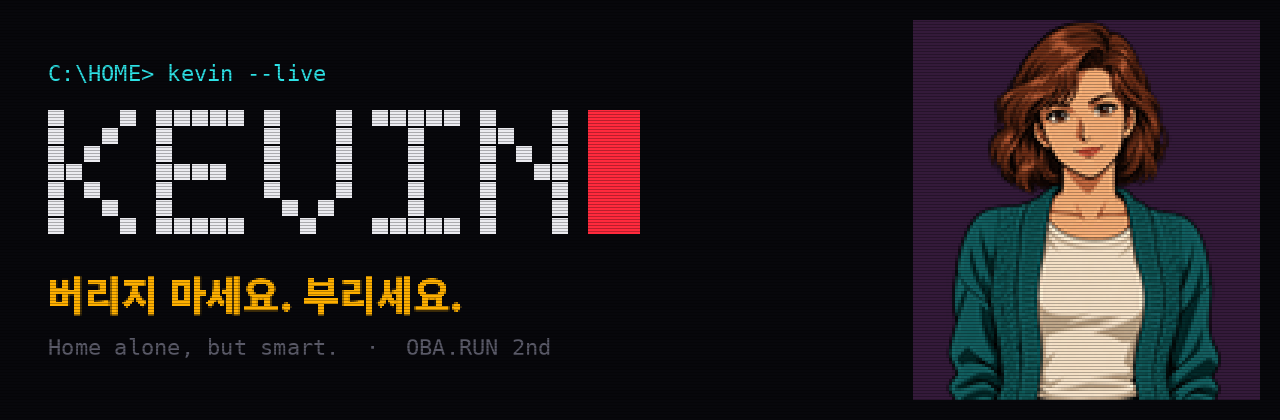
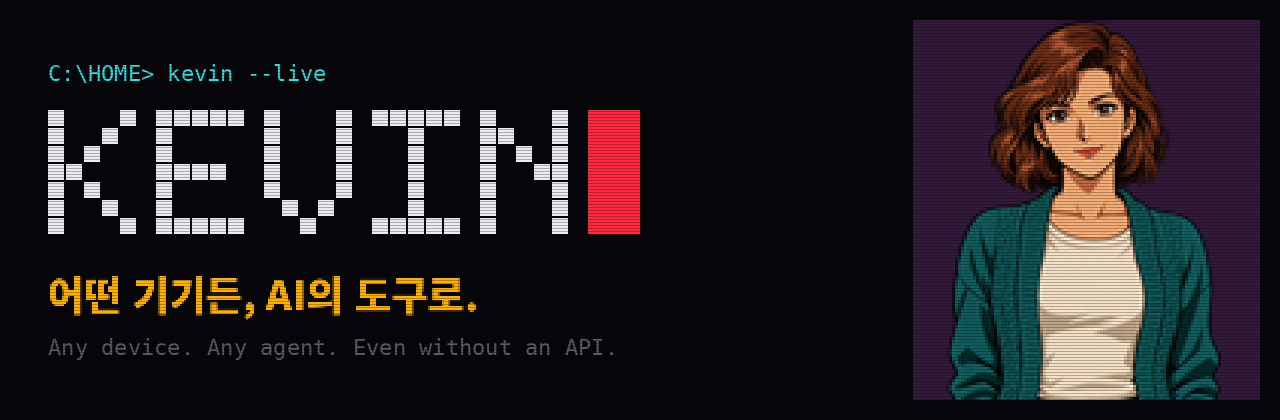
Reframe KEVIN as the device layer that turns any device into an AI tool; MCP and receipts in README

diff --git a/src/receipt.py b/src/receipt.py
@@ -13,6 +13,7 @@ import base64
 import hashlib
 import io
 import json
+import threading
 import time
 import uuid
 from dataclasses import dataclass
@@ -33,31 +34,44 @@ class ReceiptError(ValueError):
 # ---------- camera ----------
 
 class Camera:
-    """Grab still frames from a local webcam with OpenCV (imported lazily)."""
+    """Keep one webcam open (opening takes seconds) and grab settled frames."""
 
     def __init__(self, index: int = 0, width: int = 1280, height: int = 720):
         self.index, self.width, self.height = index, width, height
+        self.cap = None
+        self.lock = threading.Lock()
 
-    def grab(self, warmup: int = 5) -> bytes:
+    def _open(self):
         try:
             import cv2
         except ImportError as exc:
             raise ReceiptError('opencv-python-headless is required for camera receipts') from exc
-        cap = cv2.VideoCapture(self.index, getattr(cv2, 'CAP_DSHOW', 0))
-        try:
-            cap.set(cv2.CAP_PROP_FRAME_WIDTH, self.width)
-            cap.set(cv2.CAP_PROP_FRAME_HEIGHT, self.height)
-            frame = None
-            for _ in range(max(1, warmup)):
-                ok, frame = cap.read()
-            if frame is None or not ok:
+        if self.cap is None or not self.cap.isOpened():
+            self.cap = cv2.VideoCapture(self.index, getattr(cv2, 'CAP_DSHOW', 0))
+            self.cap.set(cv2.CAP_PROP_FRAME_WIDTH, self.width)
+            self.cap.set(cv2.CAP_PROP_FRAME_HEIGHT, self.height)
+            for _ in range(30):  # let auto-exposure settle once
+                self.cap.read()
+        return cv2
+
+    def grab(self, flush: int = 4) -> bytes:
+        with self.lock:
+            cv2 = self._open()
+            frame, ok = None, False
+            for _ in range(max(1, flush)):  # drop buffered stale frames
+                ok, frame = self.cap.read()
+            if not ok or frame is None:
                 raise ReceiptError('camera returned no frame')
             ok, jpg = cv2.imencode('.jpg', frame, [int(cv2.IMWRITE_JPEG_QUALITY), 88])
             if not ok:
                 raise ReceiptError('could not encode camera frame')
             return jpg.tobytes()
-        finally:
-            cap.release()
+
+    def close(self):
+        with self.lock:
+            if self.cap is not None:
+                self.cap.release()
+                self.cap = None
 
 
 # ---------- observation ----------

diff --git a/README.md b/README.md
@@ -1,95 +1,94 @@
 <div align="center">
 
-<img src="assets/brand/banner.png" alt="KEVIN — 버리지 마세요. 부리세요." width="100%">
+<img src="assets/brand/banner.png" alt="KEVIN — 어떤 기기든 AI가 부를 수 있는 도구로" width="100%">
 
-**말 한마디로 집 안의 옛날 기기를 부리는 터미널 속 AI**
+### 어떤 기기든 AI가 부를 수 있는 도구로 바꿔 줍니다.<br>앱도, API도 없는 기기까지.
 
-[로드맵](ROADMAP.md) · [왜 돈이 되는가](docs/BUSINESS.md) · [브랜드](docs/BRAND.md) · [기여 안내](CONTRIBUTING.md)
+[로드맵](ROADMAP.md) · [사업성](docs/BUSINESS.md) · [브랜드](docs/BRAND.md) · [기여 안내](CONTRIBUTING.md)
 
 <img src="docs/led-preview.gif" alt="144×16 LED 전광판에 기차·트리·선물이 지나가는 크리스마스 장면" width="100%">
 
-<sub>위 화면은 실제 전송 코드가 만든 144×16 프레임을 LED 점 모양으로 확대한 것입니다.</sub>
+<sub>KEVIN이 만든 144×16 프레임을 LED 점 모양으로 확대한 화면입니다.</sub>
 
 </div>
 
 ---
 
-## 한 문장 소개
+## AI에게는 손이 없다
 
-> **“크리스마스 분위기 내줘.”** 라고 말하면, 터미널 속 AI가 대답하고 **133cm LED 전광판**에 산타와 기차가 달리며 **오래된 블루투스 라디오**에서 캐럴이 흘러나옵니다.
+AI 에이전트는 웹과 API 앞에서는 무엇이든 합니다. 그런데 현실의 기기 대부분에는 API가 없습니다. 리모컨 하나로 움직이는 가전, 블루투스로만 말하는 간판, 벽 속의 월패드, 회사가 서버를 닫은 기기가 그렇습니다. 에이전트는 이 앞에서 멈춥니다.
 
-집에는 앱도, 클라우드도, API도 없는 물건이 가득합니다. 블루투스로만 말하는 전광판, 라디오, 리모컨 하나로 움직이는 장난감 기차가 그렇습니다. 스마트홈은 이런 물건을 버리고 새로 사라고 합니다. **Kevin는 반대로 갑니다.** AI가 기존 물건의 통신법을 쥐고, 사람의 말을 그 기기의 언어로 바꿔 직접 부립니다.
+**KEVIN은 AI가 세상의 옛날 기기를 직접 쓸 수 있게 해 주는 기기 연결 계층입니다.** 기기의 원래 통신법을 찾아 AI가 부를 수 있는 도구로 엽니다. 에이전트가 그 도구를 부르면, KEVIN은 기기를 움직이고 카메라로 실행 전후를 찍어 서명한 **실물 영수증**을 돌려줍니다.
 
-## 시연 장면
+## 기기의 대답과 실제 세상은 다르다
 
-<table><tr><td><img src="docs/terminal-room.png" alt="도트 그래픽 방을 걷는 AI 캐릭터"></td><td><img src="docs/terminal-talk.png" alt="Space를 누르면 캐릭터가 크게 다가와 요청을 받는 화면"></td></tr><tr><td align="center"><sub>방을 서성이는 AI</sub></td><td align="center"><sub>말을 걸면 다가와 듣는다</sub></td></tr></table>
+오늘 행사장에서 전광판은 32프레임 애니메이션을 “받았다”고 대답했습니다. 그런데 화면은 첫 장면에서 멈춰 있었습니다. 기기의 대답만 믿는 지금의 IoT와 에이전트 도구는 이런 실패를 모릅니다.
 
-```
-┌──────────────────────────────────────────────────────────┐
-│  (도트 그래픽의 방, AI 캐릭터가 서성인다)                    │
-│                                                          │
-│  [Space]  →  배경이 사라지고 캐릭터가 크게 다가온다           │
-│                                                          │
-│  > 산타가 날아다니게 해줘. 눈은 펑펑, 캐럴도.                 │
-│                                                          │
-│  「눈을 많이 내리고, 산타 장면으로 바꿀게. 캐럴도 틀어줄게.」   │
-│        │                         │                       │
-│        ▼                         ▼                       │
-│   LED 전광판 (BLE)          블루투스 라디오 (A2DP)          │
-└──────────────────────────────────────────────────────────┘
-```
+KEVIN은 기기의 대답 대신 **카메라가 본 변화**를 돌려줍니다. 화면이 바뀌었는지, 애니메이션이 실제로 움직이는지 숫자로 남기고, 사진과 함께 서명합니다. 다른 에이전트나 사람은 이 영수증 하나로 무슨 일이 실제로 일어났는지 확인할 수 있습니다.
 
-1. 터미널에서 `./kevin --live` 를 실행합니다. 90년대 PC 게임처럼 색이 있는 도트 화면에서 AI 캐릭터가 방을 걷습니다.
-2. **Space**를 누르면 배경이 사라지고 캐릭터가 화면 가득 다가와 말을 기다립니다.
-3. 한국어로 말하거나(**Ctrl+V** 녹음) 입력합니다. 예: “기차 더 빨리”, “하늘을 보라색으로”, “음악은 꺼줘”.
-4. AI가 요청을 **허용된 동작의 계획**으로 바꾸고, 전광판과 라디오가 동시에 바뀝니다.
-5. **Esc** 한 번이면 모든 기기가 멈춥니다.
-
-## 무엇이 다른가
-
-| | 기존 스마트홈 | Kevin |
-|---|---|---|
-| 대상 기기 | 회사 앱·클라우드에 등록된 신제품 | 이미 집에 있는 블루투스·적외선 기기 |
-| 연결 방식 | 제조사 클라우드 경유 | PC가 기기 통신법으로 **직접** 전송 |
-| 명령 방식 | 앱 버튼, 정해진 음성 명령 | 자유로운 한국어 문장 → 검증된 계획 |
-| 여러 기기 | 기기마다 따로 | 한 문장이 화면·소리를 **한 장면**으로 묶음 |
-| 인터페이스 | 대시보드 | 대화하는 캐릭터가 있는 터미널 |
-
-## 구조
+## 세 층
 
 ```mermaid
 flowchart LR
-    U["말 / 입력"] --> ASR["음성 인식<br/>faster-whisper"]
-    ASR --> CLI["터미널 캐릭터<br/>companion_cli"]
-    U --> CLI
-    CLI --> PLAN["의도 해석<br/>로컬 LLM (Ollama)<br/>JSON Schema 고정"]
-    PLAN --> CTRL["쇼 컨트롤러<br/>검증 · 취소 · 상태"]
-    CTRL --> REN["장면 렌더러<br/>144×16 애니메이션"]
-    REN --> LED["LED 전광판<br/>iPixel BLE"]
-    CTRL --> RADIO["블루투스 라디오<br/>Windows 오디오 장치"]
+    A["어떤 AI 에이전트든<br/>(MCP 클라이언트)"] -->|tools/call| K
+    U["사람의 말<br/>터미널 캐릭터"] --> K
+    subgraph K["KEVIN"]
+        direction TB
+        C["① 연결<br/>원래 통신법 → 허용된 동작만 가진 도구"]
+        P["② 실행<br/>기기 안의 작은 AI가 계획<br/>컨트롤러만 기기 조작"]
+        R["③ 영수증<br/>카메라 전후 비교 + Ed25519 서명"]
+        C --> P --> R
+    end
+    K --> LED["LED 전광판<br/>BLE"]
+    K --> RAD["블루투스 라디오"]
+    K -.-> IR["적외선 가전·TV·월패드 …"]
+    R -->|"receipt.json + 사진"| A
 ```
 
-AI가 기기를 마음대로 조작하지 않도록 경계를 두었습니다.
+| 층 | 하는 일 | 지금 |
+|---|---|---|
+| ① 연결 | 오픈소스와 신호에서 기기의 통신법을 찾아, AI가 바꿀 수 있는 항목만 가진 MCP 도구로 엽니다. 선언하지 않은 동작은 기기에 닿지 않습니다. | LED 전광판·라디오 도구 동작. MCP 서버 `src/kevin_mcp.py` |
+| ② 실행 | 노트북 안의 3B 모델이 말을 0.5초 안에 계획으로 바꾸고, 문장에 실제로 나온 단어로 보정합니다. 인터넷 없이 돕니다. 새 요청이나 Esc가 오면 즉시 멈춥니다. | 행사장에서 전광판 실물 동작 |
+| ③ 영수증 | 실행 전 1장, 후 2장을 찍어 바뀐 정도와 움직임을 재고, 계획·기기 응답·사진 해시를 묶어 Ed25519로 서명합니다. 사진을 바꿔치기하거나 값을 고치면 바로 드러납니다. | 구현·테스트 완료. 실물 웹캠 연결 진행 중 |
 
-- **가벼운 모델 + 단어 보정.** 노트북에서 도는 qwen2.5 3B가 문장을 0.5초 안에 해석합니다. 작은 모델은 “보라색”을 다른 색으로, “산타”를 기차로 바꾸는 식으로 흔들리기 때문에, 문장에 실제로 나온 단어(색 이름, 산타·기차, 눈, 음악, 전부 멈춰)가 모델 판단보다 우선합니다. 문장에 없는 항목은 바뀌지 않습니다.
-- **언어 모델은 계획만 만듭니다.** 출력은 JSON Schema로 고정되어 장면, 속도, 눈, 하늘색, 음악, 볼륨만 바꿀 수 있습니다. 지원하지 않는 요청은 `unsupported`로 돌려보내고 일부만 몰래 실행하지 않습니다.
-- **기기 조작은 컨트롤러만 합니다.** 계획을 다시 검증한 뒤 장면을 그려 보내며, 실행 중 새 요청이나 Esc가 오면 이전 작업을 취소합니다.
-- **기본은 미리보기입니다.** `--live`와 기기 주소를 함께 지정했을 때만 실물로 내보냅니다.
+## 기반 기술인 이유
 
-## 사용한 오픈소스와 기술
+연결 하나를 만들면 **같은 기기를 가진 모든 사람과, MCP를 쓰는 모든 에이전트가** 다시 씁니다. 기기 종류가 늘수록 에이전트가 할 수 있는 일이 늘어납니다. KEVIN은 앱 하나가 아니라, 에이전트가 물리 세계로 나가는 길목에 놓이는 계층입니다.
 
-| 영역 | 사용 기술 |
+## 시연
+
+<table><tr><td><img src="docs/terminal-room.png" alt="도트 그래픽 방을 걷는 AI 캐릭터"></td><td><img src="docs/terminal-talk.png" alt="말을 걸면 캐릭터가 크게 다가와 요청을 받는 화면"></td></tr><tr><td align="center"><sub>방을 서성이는 케빈</sub></td><td align="center"><sub>말을 걸면 다가와 듣는다</sub></td></tr></table>
+
+1. 터미널에서 `kevin --live`. 90년대 도스 게임 같은 컬러 도트 방에서 케빈이 서성입니다.
+2. **Space**로 말을 걸면 배경이 사라지고 케빈이 화면 가득 다가옵니다.
+3. “크리스마스로 만들어줘. 눈 펑펑, 캐럴도.” → 133cm 전광판에 기차와 눈이 달리고, 낡은 라디오에서 캐럴이 나옵니다.
+4. 같은 일을 다른 AI 에이전트가 MCP로 부르면, 실행 전후 사진이 담긴 서명된 영수증이 돌아옵니다.
+
+## MCP로 부르기
+
+```json
+{
+  "mcpServers": {
+    "kevin": { "command": "python", "args": ["src/kevin_mcp.py"] }
+  }
+}
+```
+
+| 도구 | 하는 일 |
 |---|---|
-| LED 전광판 전송 | [pypixelcolor](https://github.com/lucagoc/pypixelcolor) 0.5.0 (iPixel Color BLE 프로토콜), [Bleak](https://github.com/hbldh/bleak) |
-| 통신 규약 참고 | [go-ipxl](https://github.com/yyewolf/go-ipxl), [ha-ipixel-color](https://github.com/cagcoach/ha-ipixel-color) |
-| 의도 해석 | [Ollama](https://ollama.com) 로컬 모델 + JSON Schema 구조화 출력 |
-| 음성 인식 | [faster-whisper](https://github.com/SYSTRAN/faster-whisper) (선택) |
-| 장면·도트 렌더링 | [Pillow](https://python-pillow.org) |
-| 라디오 재생 | Windows Runtime `MediaPlayer` + 블루투스 오디오 장치 지정 |
+| `led_scene` | 전광판 장면(기차·산타), 눈, 하늘색, 속도 |
+| `radio` | 라디오 캐럴 재생·정지, 볼륨 |
+| `say` | 한국어·영어 문장 한 줄을 케빈이 계획해 실행 |
+| `stop_all` | 모든 기기 즉시 정지 |
+
+영수증은 `.runtime/receipts/<id>/`에 사진과 함께 남고, 아래 명령으로 서명과 사진을 대조합니다.
+
+```sh
+python src/receipt.py .runtime/receipts/<id>
+# OK 20261107-125914-35bb3d  changed=True (0.0704)  moving=True (0.1276)
+```
 
 ## 실행
-
-Python 3.10 이상이 필요합니다.
 
 ```sh
 python3 -m venv .venv
@@ -97,66 +96,75 @@ python3 -m venv .venv
 ./kevin            # 미리보기: 기기를 건드리지 않습니다
 ```
 
-실물 기기로 내보내려면 Windows에서 다음을 설정합니다.
+실물 기기와 카메라 영수증은 Windows에서:
 
 ```powershell
 py -m venv .venv
 .venv\Scripts\pip install -r requirements-live.txt
-$env:KEVIN_LED_ADDRESS = "<전광판 BLE 주소>"
-$env:KEVIN_RADIO_DEVICE = "<블루투스 라디오 장치 이름>"
-$env:KEVIN_OLLAMA_MODEL = "qwen2.5:3b"   # 가벼운 모델 + 단어 보정
+$env:KEVIN_LED_ADDRESS  = "<전광판 BLE 주소>"
+$env:KEVIN_RADIO_DEVICE = "CRF-35B"
+$env:KEVIN_OLLAMA_MODEL = "qwen2.5:3b"
+$env:KEVIN_CAMERA       = "0"            # 웹캠 번호, 끄려면 off
+$env:KEVIN_CAMERA_ROI   = "x,y,w,h"      # 카메라 화면 속 기기 위치 (선택)
 .\kevin.cmd --live
 ```
 
 | 키 | 동작 |
 |---|---|
-| Space | 캐릭터에게 말 걸기 |
+| Space | 케빈에게 말 걸기 |
 | Enter | 요청 보내기 |
 | Ctrl+V | 음성 녹음 시작/끝 (`KEVIN_ASR_URL` 설정 시) |
 | Ctrl+L | 미리보기 ↔ 실물 전환 |
 | Esc | 모든 기기 정지 |
-| Ctrl+C | 종료 |
 
-음성 인식 서버는 `src/local_asr_server.py`를 `requirements-voice.txt` 환경에서 실행합니다.
+## 사용한 오픈소스와 기술
 
-## 검증
+| 영역 | 사용 기술 |
+|---|---|
+| 에이전트 연결 | [Model Context Protocol](https://modelcontextprotocol.io) (stdio, JSON-RPC 2.0) |
+| LED 전광판 | [pypixelcolor](https://github.com/lucagoc/pypixelcolor) 0.5.0, [Bleak](https://github.com/hbldh/bleak) / 참고: [go-ipxl](https://github.com/yyewolf/go-ipxl), [ha-ipixel-color](https://github.com/cagcoach/ha-ipixel-color) |
+| 계획 | [Ollama](https://ollama.com) + qwen2.5 3B, JSON Schema 구조화 출력 + 단어 보정 |
+| 영수증 | OpenCV 캡처, Pillow 전후 비교, [cryptography](https://cryptography.io) Ed25519 |
+| 음성 | [faster-whisper](https://github.com/SYSTRAN/faster-whisper) (선택) |
+| 라디오 | Windows Runtime `MediaPlayer` + 블루투스 오디오 장치 지정 |
+
+## 테스트
 
 ```sh
 PYTHONPATH=src python3 -m unittest discover -s tests
 ```
 
-99개 테스트가 의도 해석 스키마, 장면 렌더링, 전광판 전송 계획, 취소·정지, 음성 업로드 경계, 터미널 화면을 확인합니다. 실물 BLE·오디오 장치가 필요한 10개는 장치가 없으면 건너뜁니다.
+계획 해석, 단어 보정, 장면 렌더링, 전광판 전송, 취소·정지, MCP 서버, 영수증(변화·움직임 판정, 서명, 사진 바꿔치기와 값 조작 탐지)을 확인합니다. 실물 장치가 필요한 테스트는 장치가 없으면 건너뜁니다.
 
-## 실물 검증 상태
+## 실물 동작 기록
 
-정직하게 구분해 둡니다.
-
-| 기기 | 상태 |
+| 기기 | 기록 |
 |---|---|
-| 디라이브 133×19.2cm LED 전광판 (iPixel Color, 144×16) | 행사장에서 한국어 문장 → AI 계획 → 애니메이션 재생까지 눈으로 확인 (해석 약 1초, 전송 약 6초). 전광판은 긴 GIF를 첫 장면만 보여 주므로 12프레임 이하로 자동 축소 |
-| 코비 CRF-35B 블루투스 라디오 | 캐럴 재생 청취 확인 |
-| MYKA FORT 90995 리모컨 기차 | 리모컨이 적외선 방식임을 확인. 적외선 송신 경로 연결 진행 중 |
+| 디라이브 133×19.2cm LED 전광판 (144×16) | 행사장에서 한국어 문장 → 계획(약 1초) → 애니메이션 재생(전송 약 6초) 확인. 긴 GIF는 “받았다”고 대답하고도 첫 장면에서 멈춰, 12프레임 이하로 자동 조정 |
+| 코비 CRF-35B 블루투스 라디오 | 캐럴 재생 청취 확인 (집). 행사장에서는 Windows 소리 출력 연결 대기 |
+| 웹캠 영수증 | 가상 카메라로 서명·판정 확인. MSI 사용자 세션의 실물 웹캠 연결 진행 중 |
+| MYKA FORT 90995 리모컨 기차 | 리모컨이 적외선 방식임을 확인. 적외선 송신 장치 연결 진행 중 |
 
-## 로드맵 — 집 전체로
+## 로드맵 — 열 가지 기기를 도구로
 
-같은 원리로 10개 기기 트랙을 팀원이 동시에 개발합니다. 트랙별 시연, 출발점 오픈소스, 완료 기준은 [ROADMAP.md](ROADMAP.md)에 있고 GitHub 이슈로 나뉘어 있습니다.
+같은 세 층으로 10개 기기 트랙을 팀원이 동시에 엽니다. 트랙별 시연, 출발점 오픈소스, 완료 기준은 [ROADMAP.md](ROADMAP.md)와 [이슈](https://github.com/sergiobuilds/kevin/issues?q=label%3Aroadmap)에 있습니다.
 
-| # | 트랙 | 시연 한 장면 |
+| # | 기기 | 에이전트가 할 수 있게 되는 일 |
 |---|---|---|
-| 01 | LED 전광판 | “크리스마스 분위기 내줘” → 산타와 기차가 달린다 **(실물 동작)** |
-| 02 | 조명 | 진열이 바뀌어도 카메라로 보고 밝기·위치를 다시 맞춘다 |
-| 03 | 스피커·라디오 | 발표가 시작되면 음악은 말소리 아래로, 전광판은 ‘발표 중’ |
-| 04 | 월패드 | 다른 등은 그대로 두고 원하는 등만 켠다 |
-| 05 | TV | 엉뚱한 화면을 아까 보던 화면으로 되돌린다 |
-| 06 | 적외선 가전 | 리모컨 신호를 배워 기차·선풍기를 말로 부린다 |
-| 07 | 로봇청소기 | 카메라로 본 남은 구역만 다시 청소한다 |
-| 08 | 방범·현관 | 어두우면 불을 켜고 다시 보고 확인한다 |
-| 09 | 서비스 끝난 기기 | 서버가 사라진 기기를 다시 살린다 |
-| 10 | 모르는 통신법 | 설명서 없는 기기의 명령 의미를 관찰로 배운다 |
+| 01 | LED 전광판 | 장면·문구·애니메이션 바꾸기 **(실물 동작)** |
+| 02 | 조명 | 카메라로 보고 구역별 밝기·위치 다시 맞추기 |
+| 03 | 스피커·라디오 | 발표가 시작되면 음악을 말소리 아래로 |
+| 04 | 월패드 | 다른 등은 그대로 두고 원하는 등만 |
+| 05 | TV | 엉뚱한 화면을 보던 화면으로 되돌리기 |
+| 06 | 적외선 가전 | 리모컨 신호를 배워 기차·선풍기 움직이기 |
+| 07 | 로봇청소기 | 카메라로 본 남은 구역만 다시 청소 |
+| 08 | 방범·현관 | 어두우면 불을 켜고 다시 보기 |
+| 09 | 서비스 끝난 기기 | 서버가 사라진 기기 되살리기 |
+| 10 | 모르는 통신법 | 설명서 없는 기기의 명령 뜻을 관찰로 배우기 |
 
-## 왜 돈이 되는가
+## 사업성
 
-헤이홈 같은 IR 허브가 누적 약 68만 대 팔릴 만큼, 옛날 기기를 스마트하게 쓰려는 수요는 이미 있습니다. 기존 제품은 기기마다 앱과 클라우드에 묶이고, Kevin는 여러 기기를 말 한마디로 묶어 직접 부립니다. 국내 가구의 1%가 월 4,900원을 내면 연 약 136억 원입니다. 가정과 출처는 [BUSINESS.md](docs/BUSINESS.md)에 있습니다.
+에이전트가 웹을 넘어 실물을 다루기 시작하면, 기기 연결과 실제로 일어난 일의 기록이 반드시 필요해집니다. 연결 하나를 같은 기기를 가진 모든 고객과 에이전트가 다시 쓰므로, 기기 종류가 늘수록 비용은 그대로이고 쓰임은 커집니다. 고객층과 추산은 [BUSINESS.md](docs/BUSINESS.md)에 있습니다.
 
 ## 팀
 

diff --git a/docs/BRAND.md b/docs/BRAND.md
@@ -8,15 +8,24 @@
 
 ## 한 줄
 
-- **버리지 마세요. 부리세요.**
-- Don't replace it. Command it.
-- 보조: *집은 케빈이 지킵니다. 이미 있는 물건으로.*
+- **어떤 기기든 AI가 부를 수 있는 도구로 바꿔 줍니다. 앱도, API도 없는 기기까지.**
+- Any device. Any agent. Even without an API.
+- 짧게: **어떤 기기든, AI의 도구로.**
 
-## 약속
+## 우리가 하는 일
 
-1. **새로 사지 않는다.** 이미 집에 있는 기기를 그 기기의 원래 통신법으로 부린다.
-2. **앱도, 클라우드도 없이.** 말과 기기 사이에 제조사 서버를 두지 않는다.
-3. **말 한마디에 실물이 바뀐다.** 대시보드 대신 대화, 미리보기 대신 실제 화면과 소리.
+KEVIN은 AI가 세상의 옛날 기기를 직접 쓸 수 있게 해 주는 기기 연결 계층입니다. 가정용 앱이 아니라, AI 에이전트가 물리 세계를 다루는 데 필요한 기반 기술입니다.
+
+1. **연결.** 기기의 원래 통신법을 찾아 AI가 부를 수 있는 도구로 엽니다.
+2. **실행.** 기기 안의 작은 AI가 말을 계획으로 바꾸고, 허용된 동작만 기기에 닿습니다.
+3. **영수증.** 실행 전후를 카메라로 찍어 서명한 실물 영수증을 돌려줍니다. 기기의 대답이 아니라 실제로 일어난 일을 남깁니다.
+
+## 쓰는 말, 피하는 말
+
+| 쓰는 말 | 피하는 말 |
+|---|---|
+| 기기 연결 계층, AI의 도구, 실물 영수증, 실제로 일어난 일 | 스마트홈 앱, 리모컨 앱, 만능 허브 |
+| 앱도 API도 없는 기기 | 구형·고물 기기 |
 
 ## 시각 언어
 
@@ -45,4 +54,5 @@
 > 화면이 꺼진 CRT처럼 검다. `C:\HOME> run kevin --live` 가 찍히고 빨간 커서가 깜빡인다.
 > 방을 서성이던 캐릭터에게 말을 건다. “크리스마스로 만들어줘.”
 > 133cm 전광판에 산타가 날고, 낡은 라디오에서 캐럴이 흐른다.
-> **버리지 마세요. 부리세요.**
+> 마지막 화면에 서명된 영수증이 뜬다. 실행 전 사진, 실행 후 사진, 움직임 0.13.
+> **어떤 기기든, AI의 도구로.**

diff --git a/docs/BUSINESS.md b/docs/BUSINESS.md
@@ -1,8 +1,19 @@
 # 왜 돈이 되는가
 
-**새 스마트 가전으로 바꾸는 돈 대신, 이미 가진 기기를 부리는 소프트웨어에 돈을 냅니다.**
+**AI 에이전트가 물리 세계로 나가는 길목의 계층.** 에이전트가 실물을 다루려면 기기 연결과 “실제로 일어난 일”의 기록이 필요하고, KEVIN은 둘을 한 번에 제공합니다. 연결 하나를 같은 기기를 가진 모든 고객과 모든 에이전트가 다시 쓰므로, 기기 종류가 늘수록 비용은 그대로이고 쓰임은 커집니다.
 
-## 수요는 이미 있다
+## 누가 돈을 내는가 (가설)
+
+| 고객 | 겪는 문제 | KEVIN이 파는 것 |
+|---|---|---|
+| AI 에이전트 회사 | 에이전트가 API 없는 실물 기기를 못 씀 | 기기 도구 사용료 (호출당·기기당) |
+| 가전 제조사 | 서버를 닫으면 기존 제품이 멈춤 | 단종 기기를 계속 쓰게 하는 연결 라이선스 |
+| 아파트·건물 | 오래된 월패드·설비 교체 비용 | 교체 없이 AI가 다루게 하는 연결 계약 |
+| 매장 | 간판·스피커·조명을 따로 조작 | 말 한마디 매장 연출 + 실행 기록 |
+
+각 고객층의 시장 규모는 아직 조사하지 않았습니다. 아래는 가정 시장 하나만 따로 추산한 값입니다.
+
+## 가정 시장: 수요는 이미 있다
 
 | 근거 | 수치 | 출처 |
 |---|---|---|

diff --git a/ROADMAP.md b/ROADMAP.md
@@ -1,6 +1,6 @@
-# Roadmap — 집 전체로
+# Roadmap — 열 가지 기기를 AI의 도구로
 
-Kevin는 하나의 원리로 넓어집니다. **말 → AI 계획 → 검증 → 기기의 원래 통신법으로 직접 실행 → (가능하면) 카메라로 확인.** 아래 10개 트랙은 앞선 조사에서 기기별로 가장 강한 시연을 고른 결과이며, 팀원이 서로 막지 않고 동시에 개발할 수 있도록 트랙마다 폴더·이슈·완료 기준을 나눴습니다.
+Kevin는 하나의 원리로 넓어집니다. **연결(원래 통신법 → 도구) → 실행(작은 AI의 계획, 허용된 동작만) → 영수증(카메라 전후 + 서명).** 트랙 하나가 끝나면 그 기기는 MCP를 쓰는 모든 에이전트의 도구가 됩니다. 아래 10개 트랙은 앞선 조사에서 기기별로 가장 강한 시연을 고른 결과이며, 팀원이 서로 막지 않고 동시에 개발할 수 있도록 트랙마다 폴더·이슈·완료 기준을 나눴습니다.
 
 | # | 트랙 | 시연 한 장면 | 통신 | 현재 근거 |
 |---|---|---|---|---|
